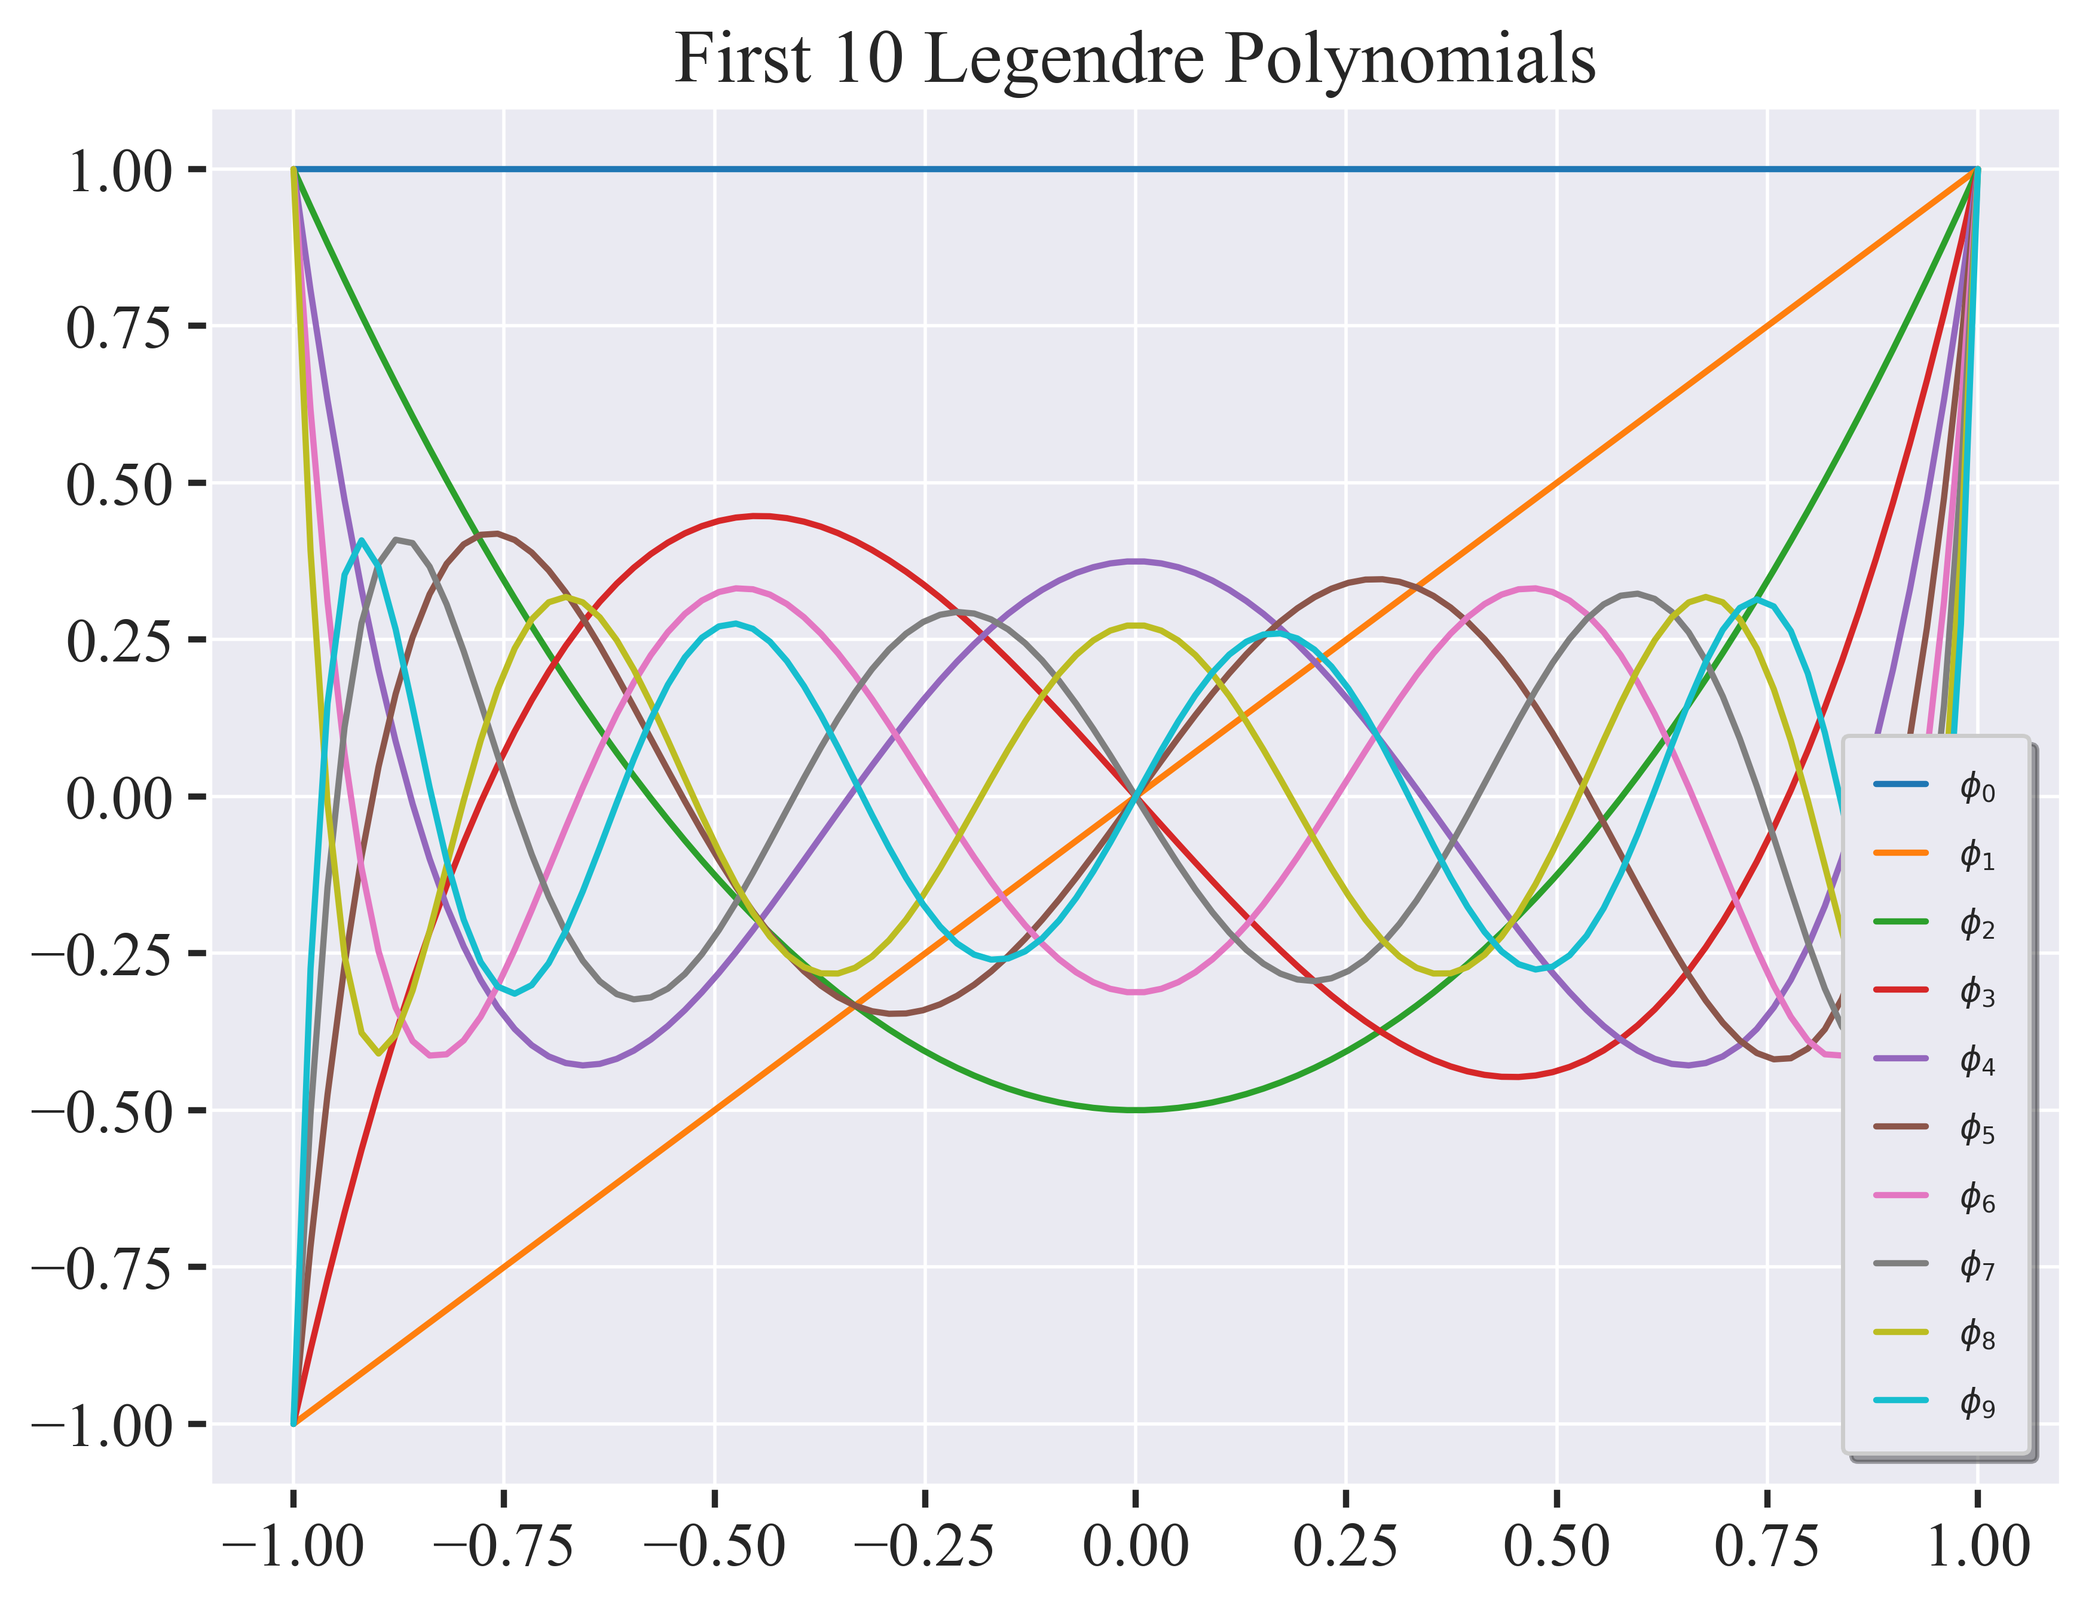
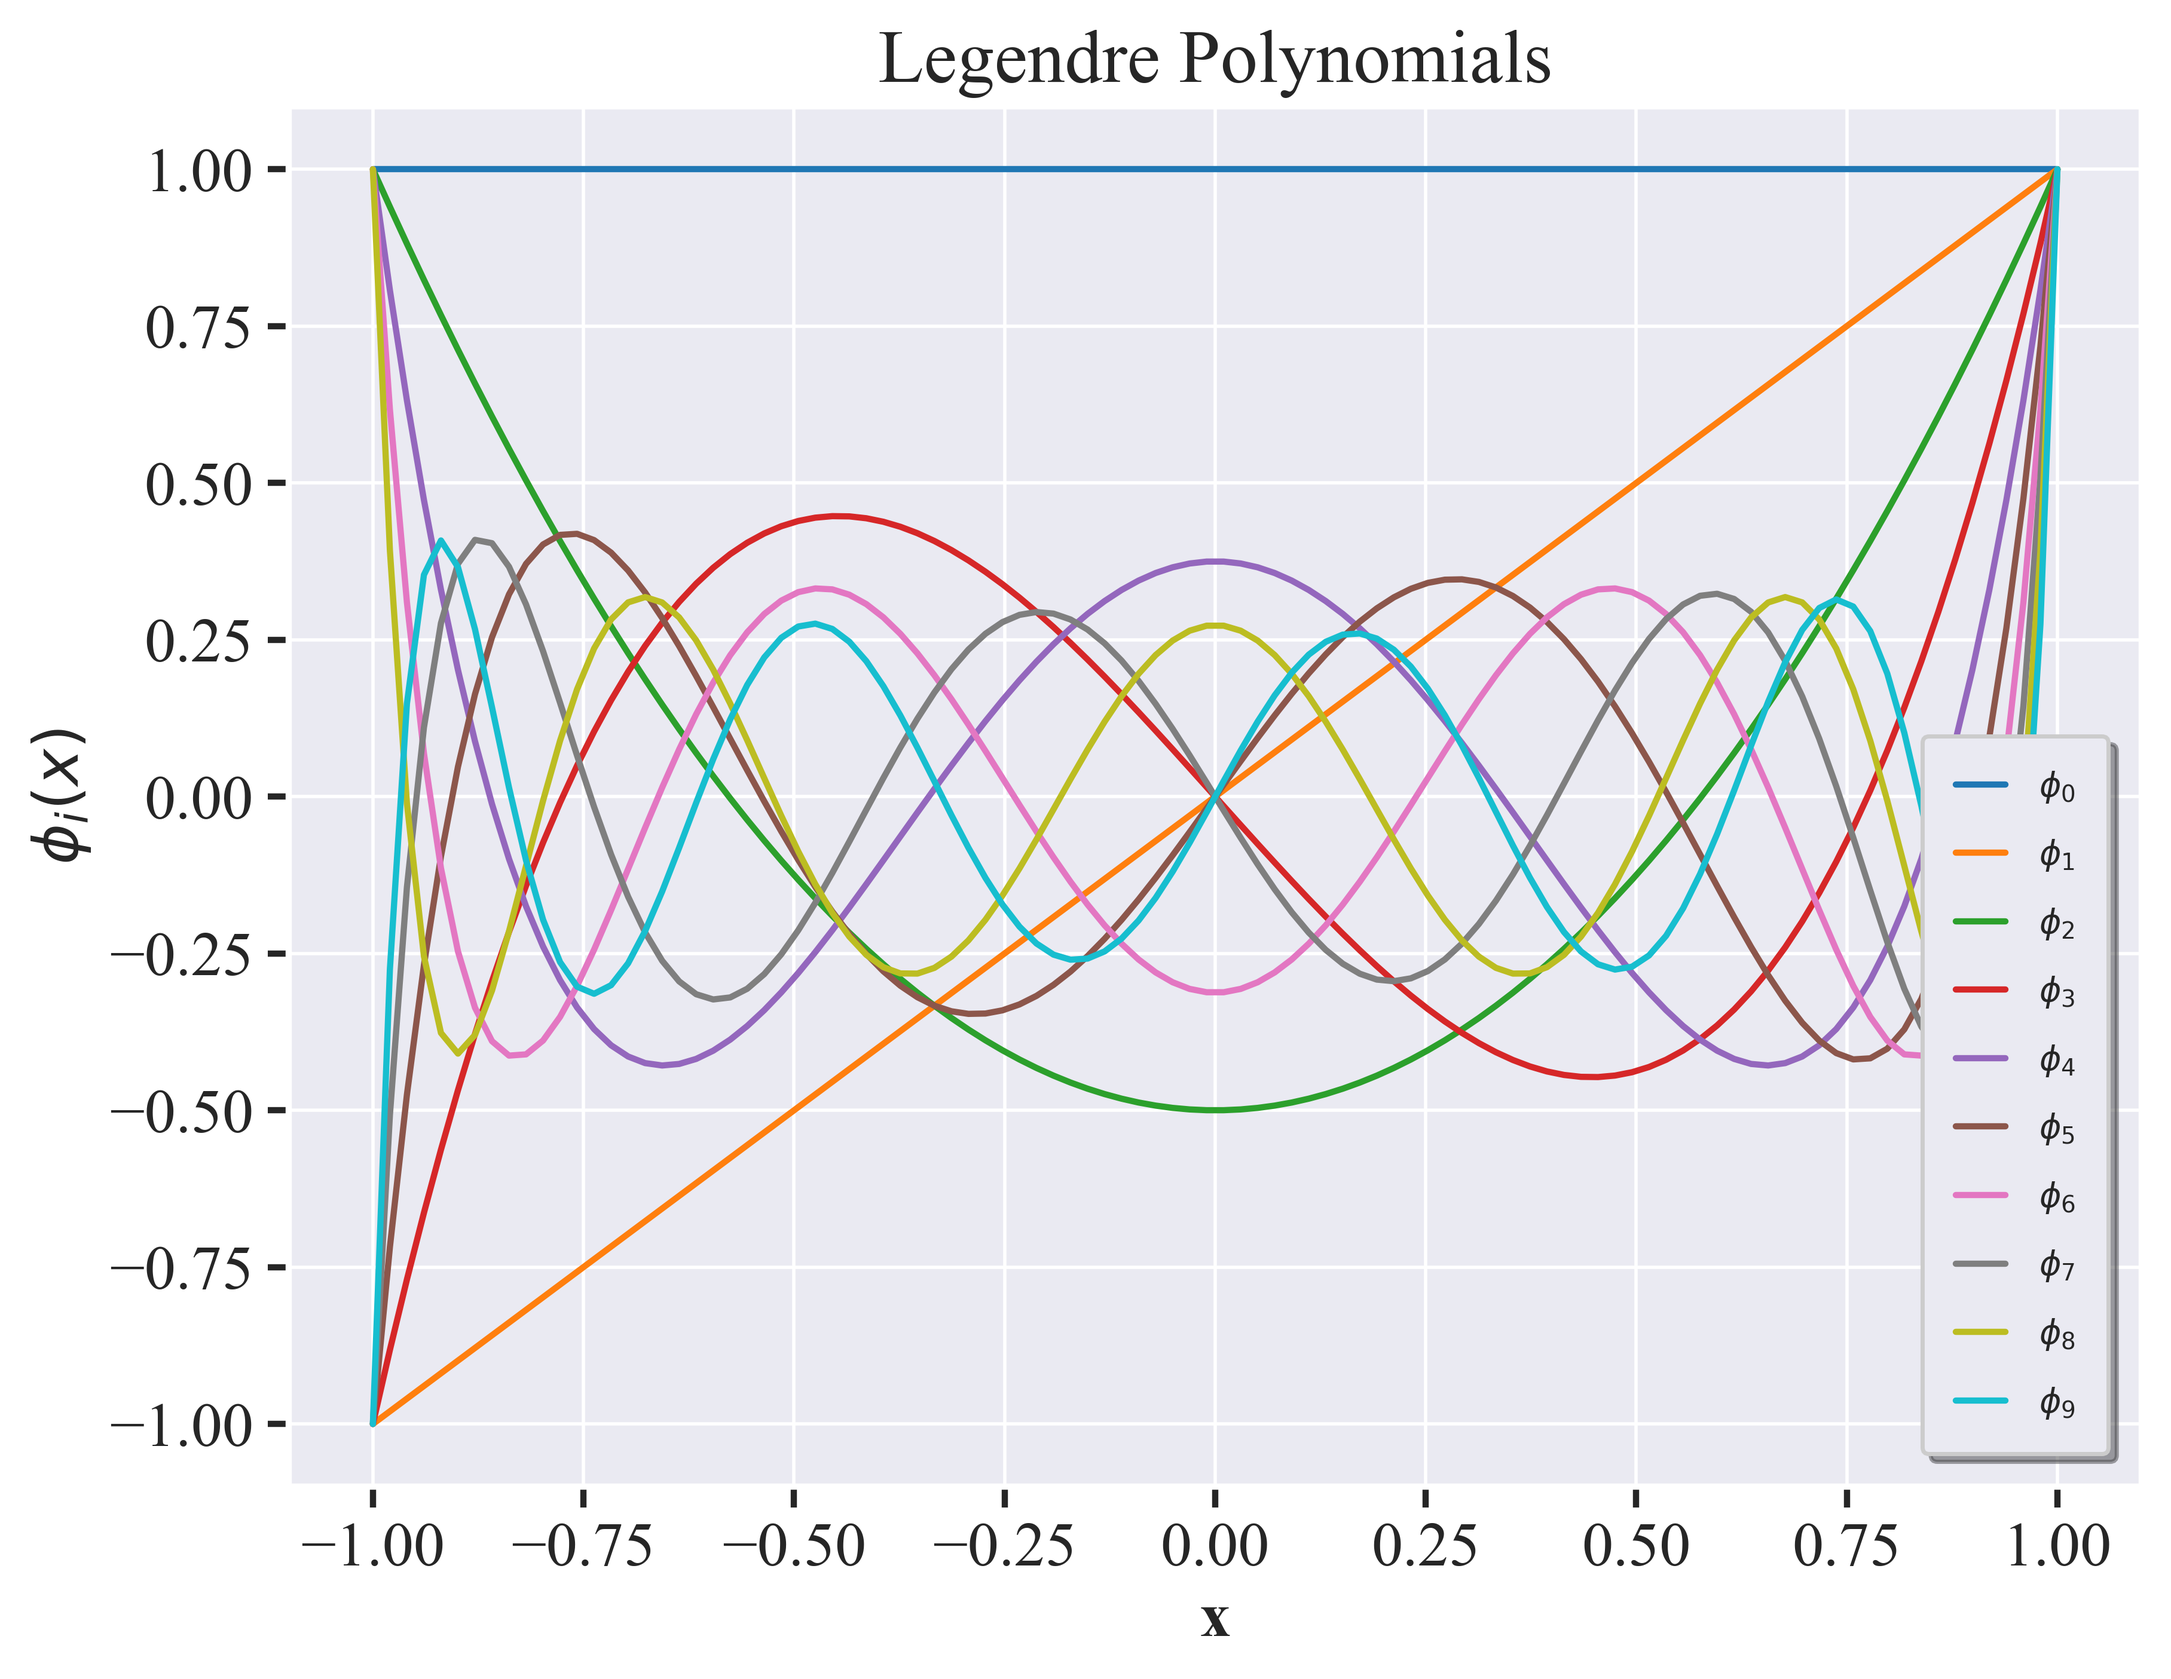
redistributed code over seperate scripts

diff --git a/code/assignment1/newton_raphson.py b/code/assignment1/newton_raphson.py
@@ -16,9 +16,7 @@ pyutils.set_style()
 
 ############### Computation parameters ####################
 n = 10  # number of Legendre polynomials
-number_of_quad_points = (
-    2 * n
-)  # number of quadrature points for Gauss quadrature (since we are multiplying polynomial of degree n with another polynomial of degree n, we need 2n quadrature points for exact integration)
+number_of_quad_points = 2 * n # number of quadrature points
 grid_resolution = 100  # resolution of the grid
 tolerance = 1e-6  # tolerance for Newton-Raphson method
 
@@ -26,21 +24,9 @@ tolerance = 1e-6  # tolerance for Newton-Raphson method
 NLS = NonLinearSystem(n, number_of_quad_points, grid_resolution)
 
 print("Problem constants:\n  ", end="")
-pprint(
-    {k: v for k, v in NLS.__dict__.items()}
-) 
+pprint({k: v for k, v in NLS.__dict__.items()})
 
-############### Setup Numerical Integration ####################
-# Legendre polynomials and eigenvalues
-legendre_polys, legendre_eigs = NLS.legendre_polys_callable, NLS.legendre_eigs
-for i in range(n):
-    plt.plot(NLS.x, legendre_polys[i](NLS.x), label=f"$\phi_{i}$")
-plt.legend(fontsize=8)
-plt.title(f"First {n} Legendre Polynomials")
-fn = output_dir / f"legendre_polynomials_n={n}.png"
-plt.savefig(fn, dpi=500)
-
-############### Setup Non-linear System of Equations ####################
+print("Plotting initial guess for T...")
 T_initial = NLS.T_x(NLS.x)
 plt.close()
 plt.plot(NLS.x, T_initial, label="Initial guess")
@@ -48,33 +34,6 @@ plt.title("Initial guess for T")
 plt.legend(fontsize=8)
 fn = output_dir / "initial_guess_T.png"
 plt.savefig(fn, dpi=500)
-
-print(
-    "Shape of F(T): \n  ",
-    NLS.evaluate().shape,
-)
-print(
-    "Shape of F_T(T): \n  ",
-    NLS.evaluate_derivative().shape,
-)
-
-################## timing function evaluations ##################
-timing_loops = 1000
-F_time = timeit(
-    "NLS.evaluate()",
-    globals=globals(),
-    number=timing_loops,
-)
-
-F_T_time = timeit(
-    "NLS.evaluate_derivative()",
-    globals=globals(),
-    number=timing_loops,
-)
-
-print(f"Time to evaluate F(T) (averaged over {timing_loops} runs): {F_time/1000:.2e} s")
-print(f"Time to evaluate F_T(T) (averaged over {timing_loops} runs): {F_T_time/1000:.2e} s")
-
-
+print("Saved initial guess for T to:\n  ", fn)
 
 ################### Newton-Raphson Method ####################

diff --git a/code/assignment1/performance_analysis.py b/code/assignment1/performance_analysis.py
@@ -1,0 +1,40 @@
+import numpy as np
+import matplotlib.pyplot as plt
+from custom_pyutils import pyutils
+from non_linear_system import NonLinearSystem
+from timeit import timeit
+
+root = pyutils.get_root()
+output_dir = root / "report" / "figures"
+print(f"Output directory:\n  {output_dir}")
+
+pyutils.set_style()
+timing_loops = 80
+
+# plot function evaluation time for F(T) and F_T(T) for different n
+plt.close()
+print("Running NLS evaluation time for different n...")
+n_values = np.arange(5, 101, 1, dtype=int)
+F_times = np.zeros(n_values.size)
+F_T_times = np.zeros(n_values.size)
+for i, n in enumerate(n_values):
+    NLS = NonLinearSystem(n, 2 * n, 100) 
+    F_times[i] = timeit(
+        "NLS.evaluate()",
+        globals=globals(),
+        number=timing_loops,
+    )
+    F_T_times[i] = timeit(
+        "NLS.evaluate_derivative()",
+        globals=globals(),
+        number=timing_loops,
+    )
+plt.plot(n_values, F_times, label="$F(T)$")
+plt.plot(n_values, F_T_times, label="$F_T(T)$")
+plt.xlabel("n")
+plt.ylabel("Time (s)")
+plt.legend()
+plt.title("Averaged evaluation time for $F(T)$ and $F_T(T)$")
+fn = output_dir / f"function_evaluation_time_n={n_values[-1]}.png"
+plt.savefig(fn, dpi=500)
+print("Saved function evaluation time plot to:\n  ", fn)

diff --git a/code/assignment1/plot_legendre_polys.py b/code/assignment1/plot_legendre_polys.py
@@ -1,0 +1,26 @@
+import matplotlib.pyplot as plt
+from custom_pyutils import pyutils
+from non_linear_system import NonLinearSystem
+
+root = pyutils.get_root()
+output_dir = root / "report" / "figures"
+print(f"Output directory:\n  {output_dir}")
+
+pyutils.set_style()
+
+n = 10  # number of Legendre polynomials
+number_of_quad_points = 2 * n # number of quadrature points
+grid_resolution = 100  # resolution of the grid
+
+NLS = NonLinearSystem(n, number_of_quad_points, grid_resolution)
+
+legendre_polys, eigs = NLS.generate_legendre_polynomials()
+for poly in legendre_polys:
+    plt.plot(NLS.x, poly(NLS.x), label=f"$\phi_{legendre_polys.index(poly)}$")
+plt.title("Legendre Polynomials")
+plt.xlabel("x")
+plt.ylabel("$\phi_i(x)$")
+plt.legend(fontsize=8)
+fn = output_dir / f"legendre_polynomials_n={n}.png"
+plt.savefig(fn, dpi=500)
+print("Saved legendre polynomials to:\n  ", fn)
